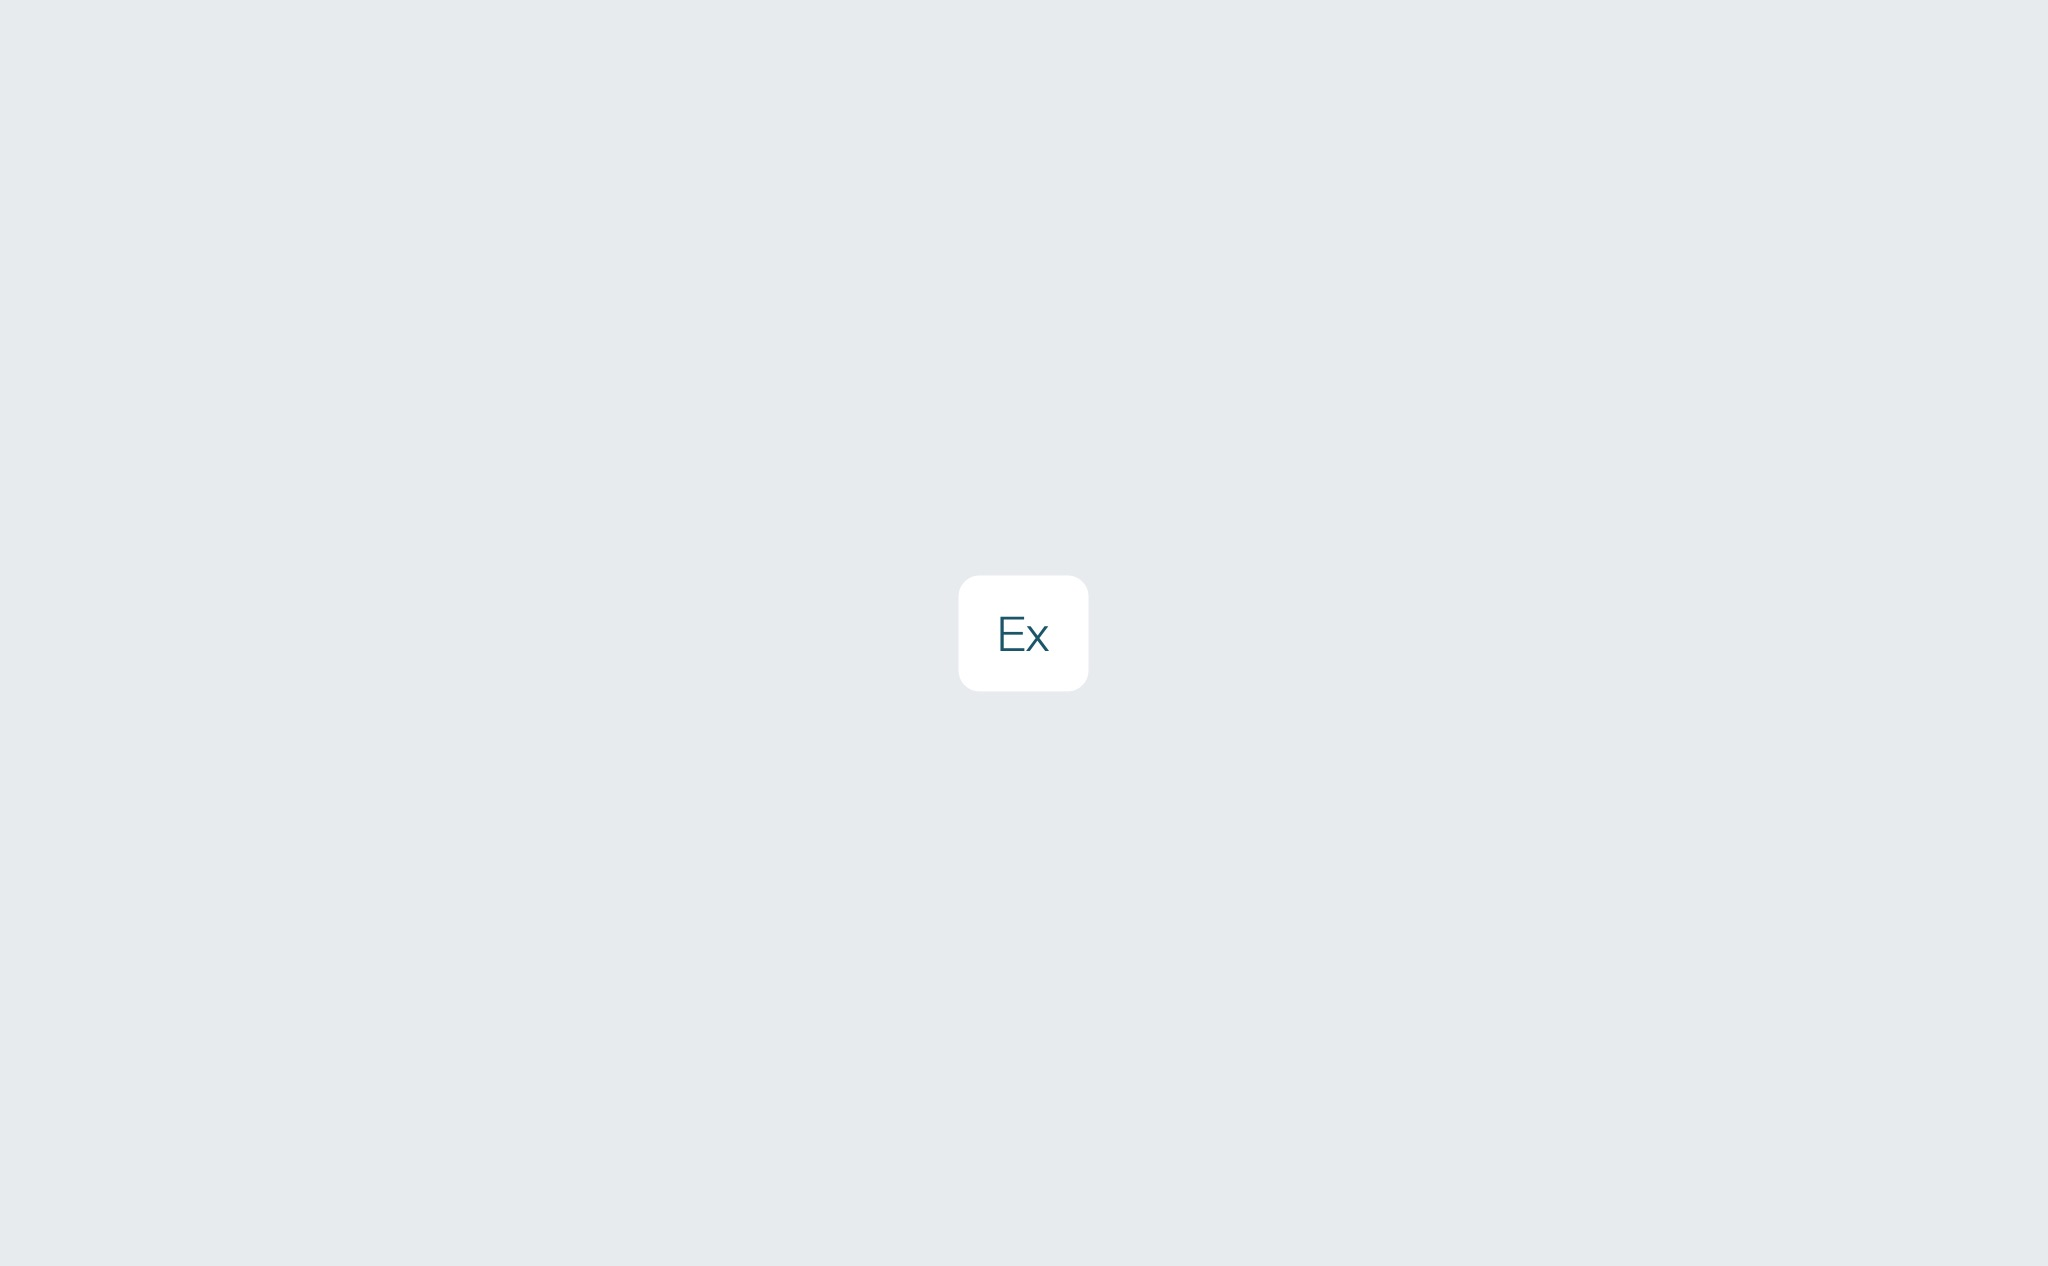
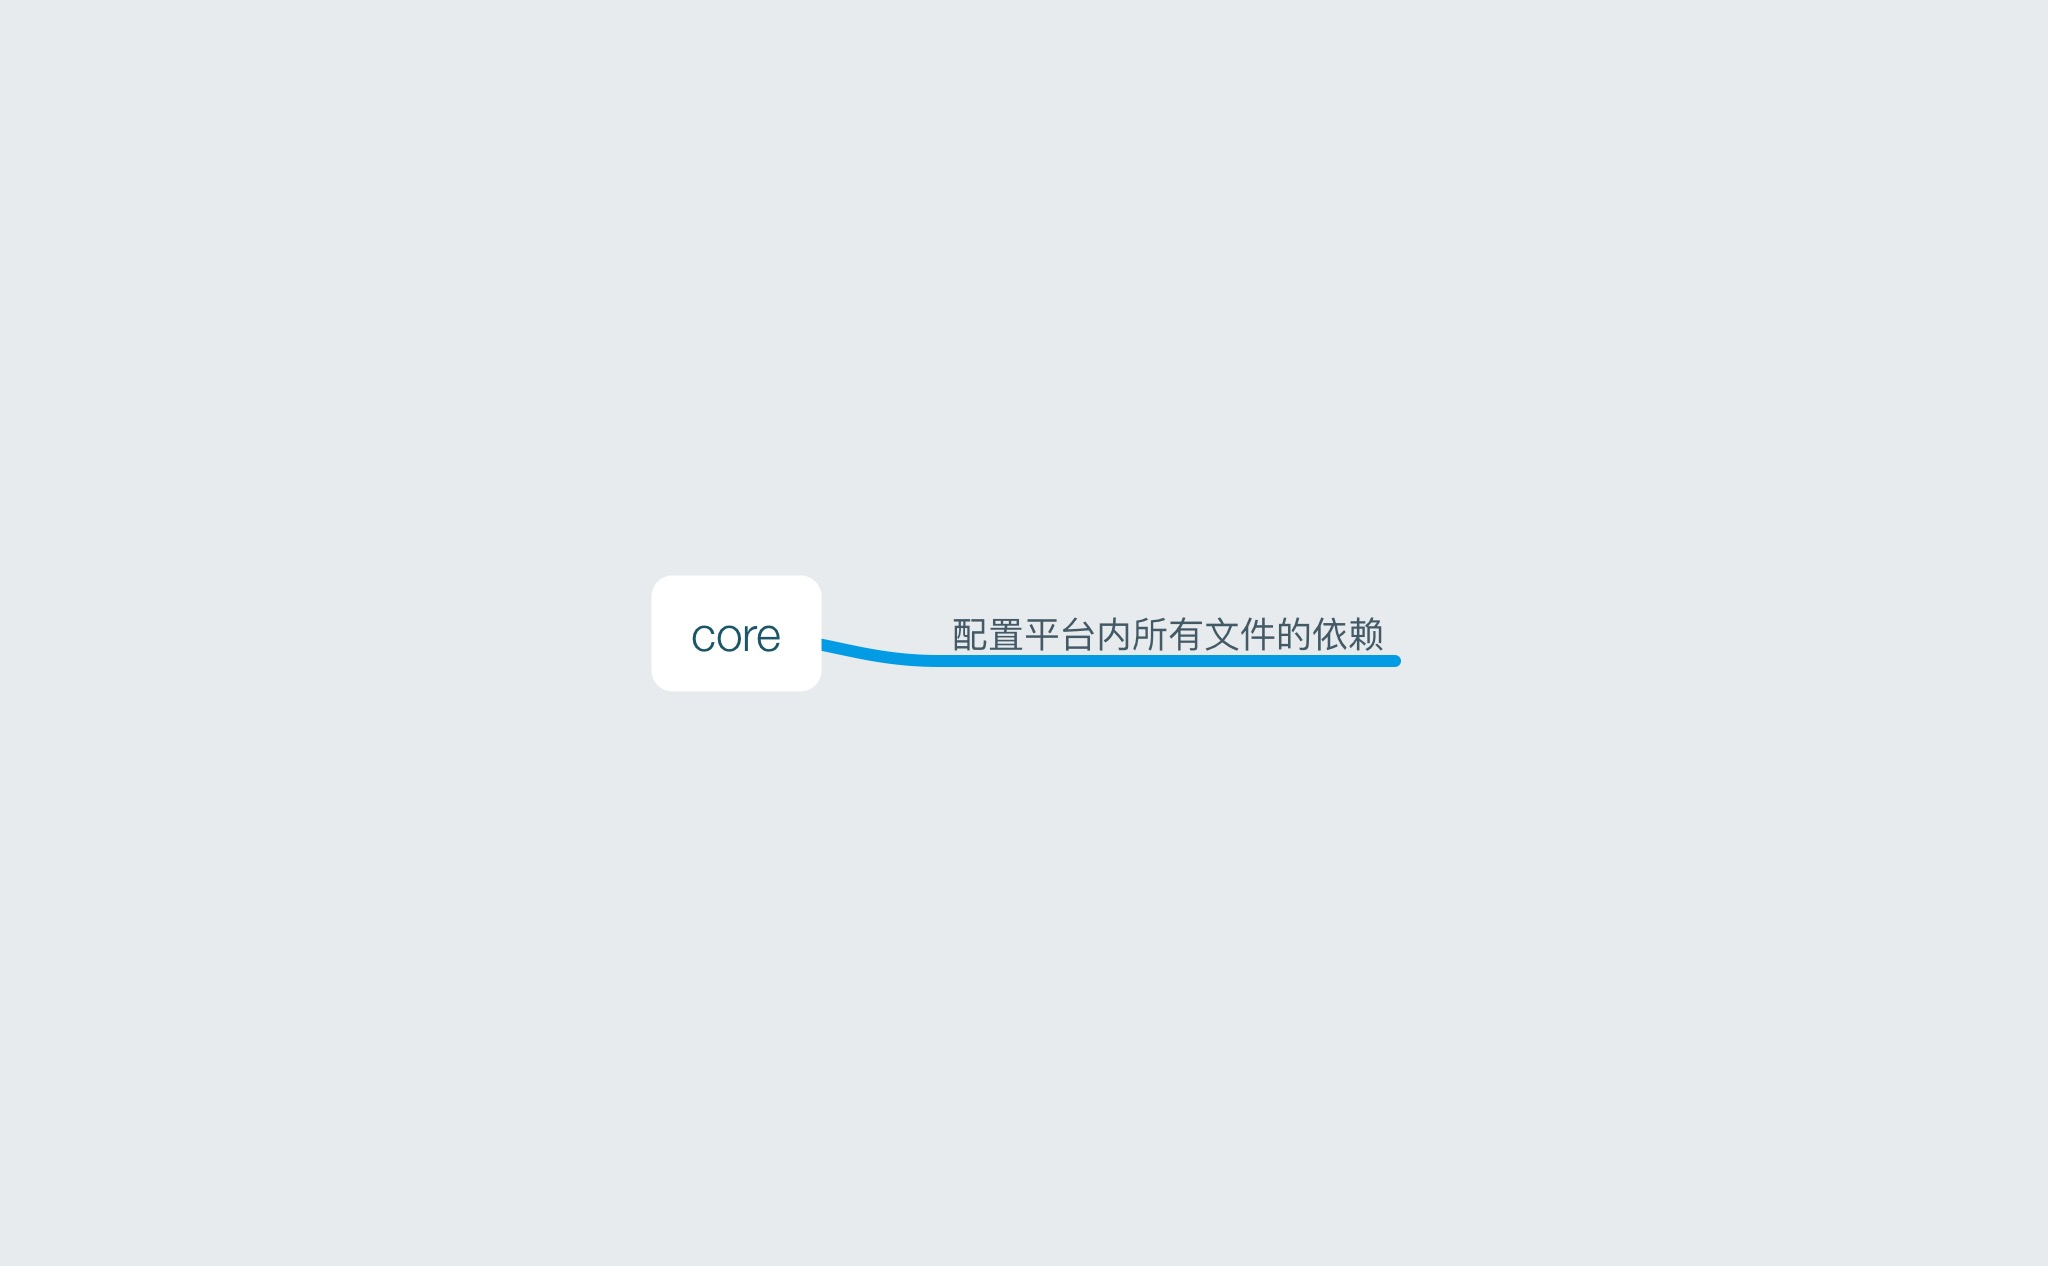
添加 6-10 图片

Changed region(s): [[0.3438, 0.4621, 0.6875, 0.5545]]

diff --git a/pastry/issues/6-思维导图 - Pastry JS.md b/pastry/issues/6-思维导图 - Pastry JS.md
@@ -52,6 +52,10 @@
 
     ![pastry wiki 里 pastry/issues/6-思维导图 - Pastry JS/9-Ex 思维导图.mindnode](https://pastryteam.github.io/pastry/issues/0-images/6/6-9.png)
 
+* [ ] core 思维导图
+
+    ![pastry wiki 里 pastry/issues/6-思维导图 - Pastry JS/10-core 思维导图.mindnode](https://pastryteam.github.io/pastry/issues/0-images/6/6-10.png)
+
 #10 思维导图 - Pastry平台整体结构
 
 [net_template]: #
